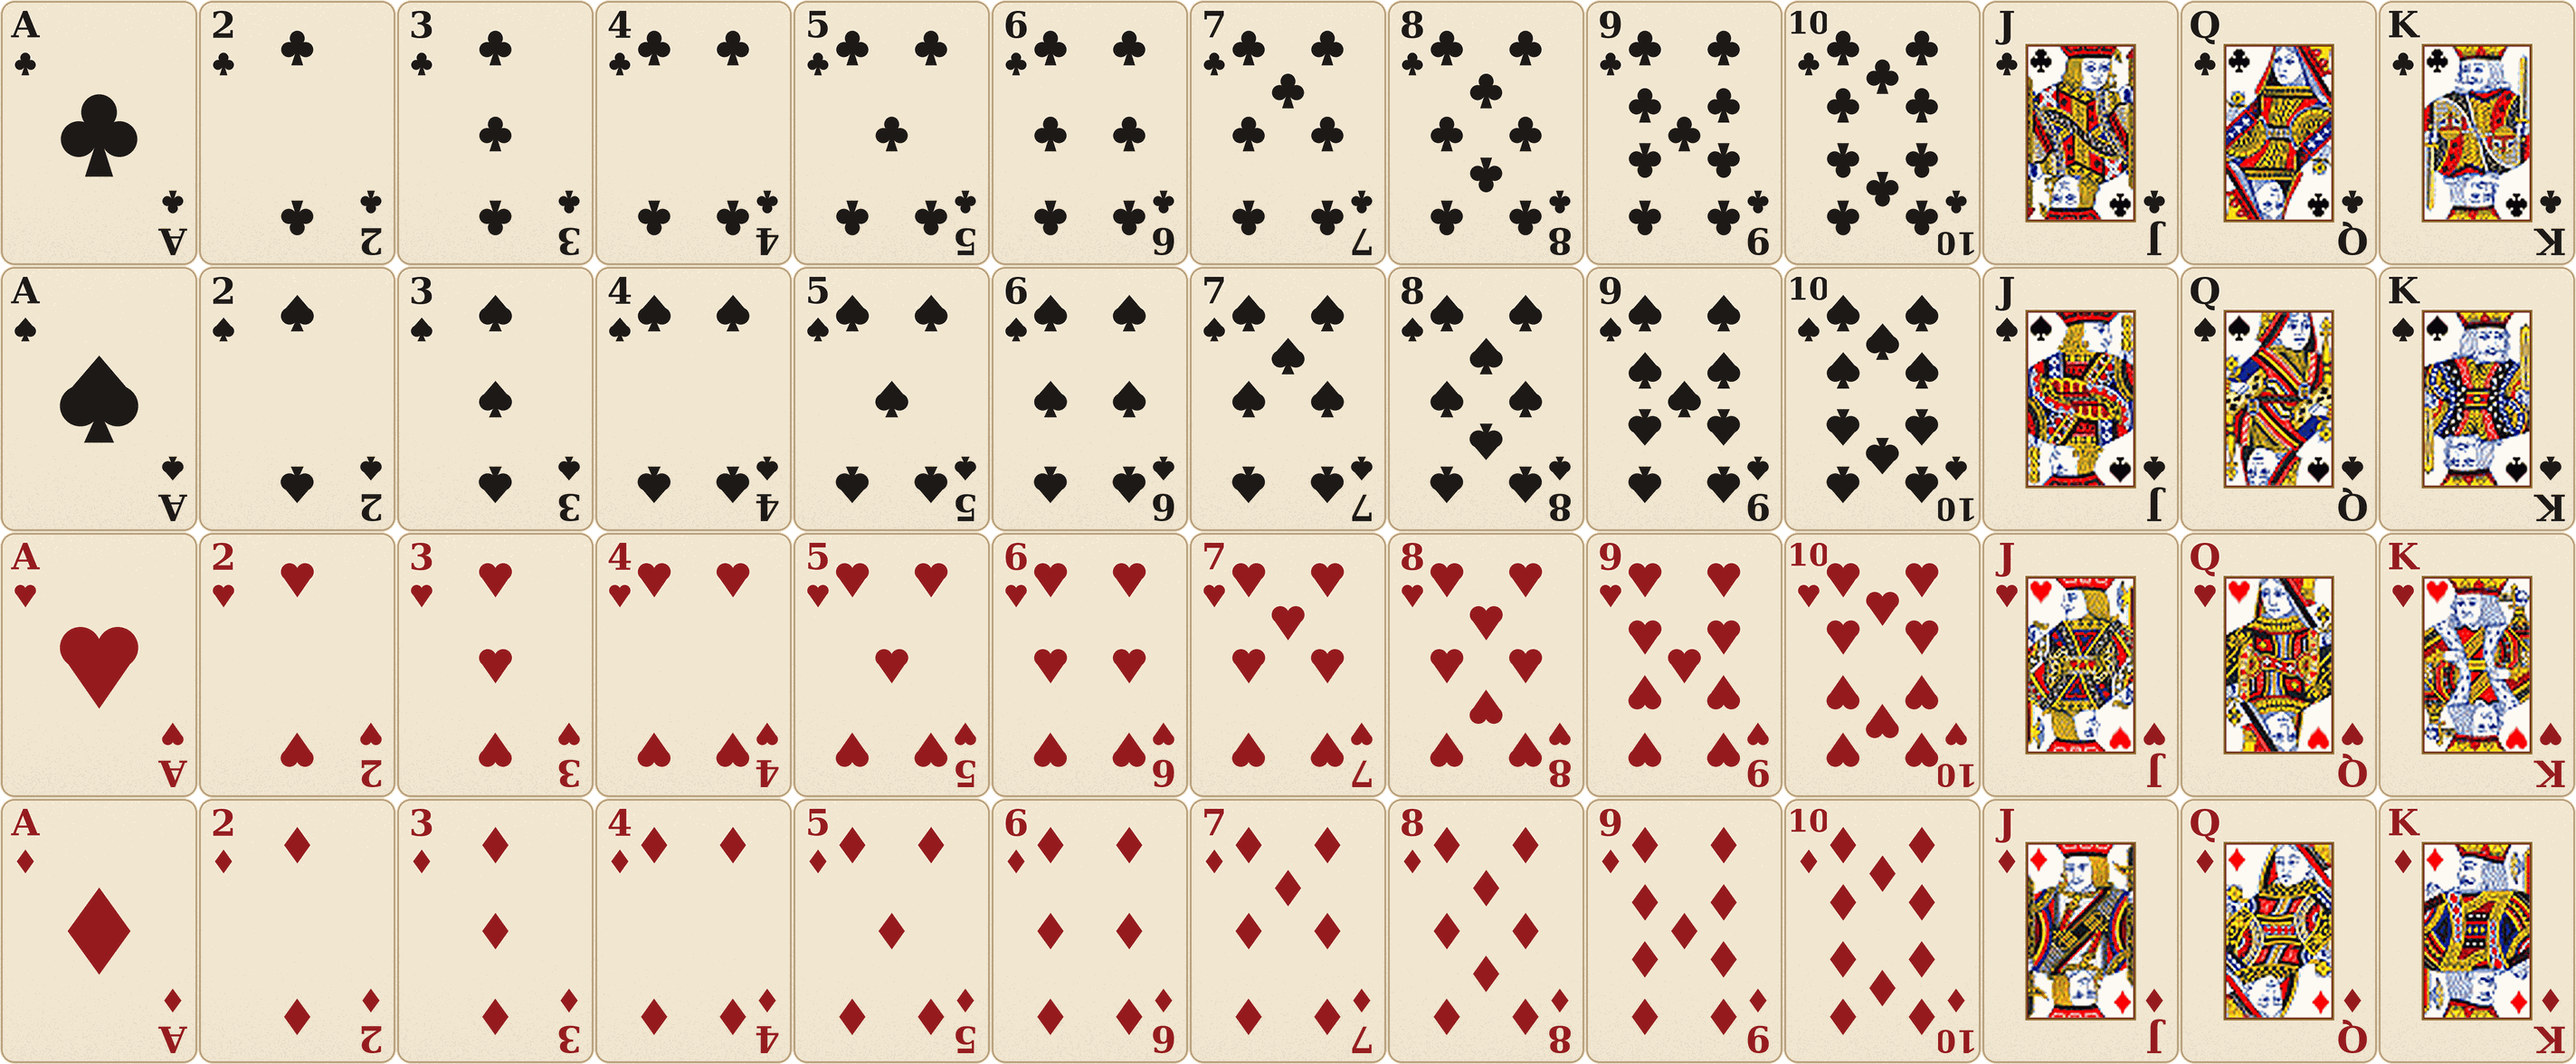
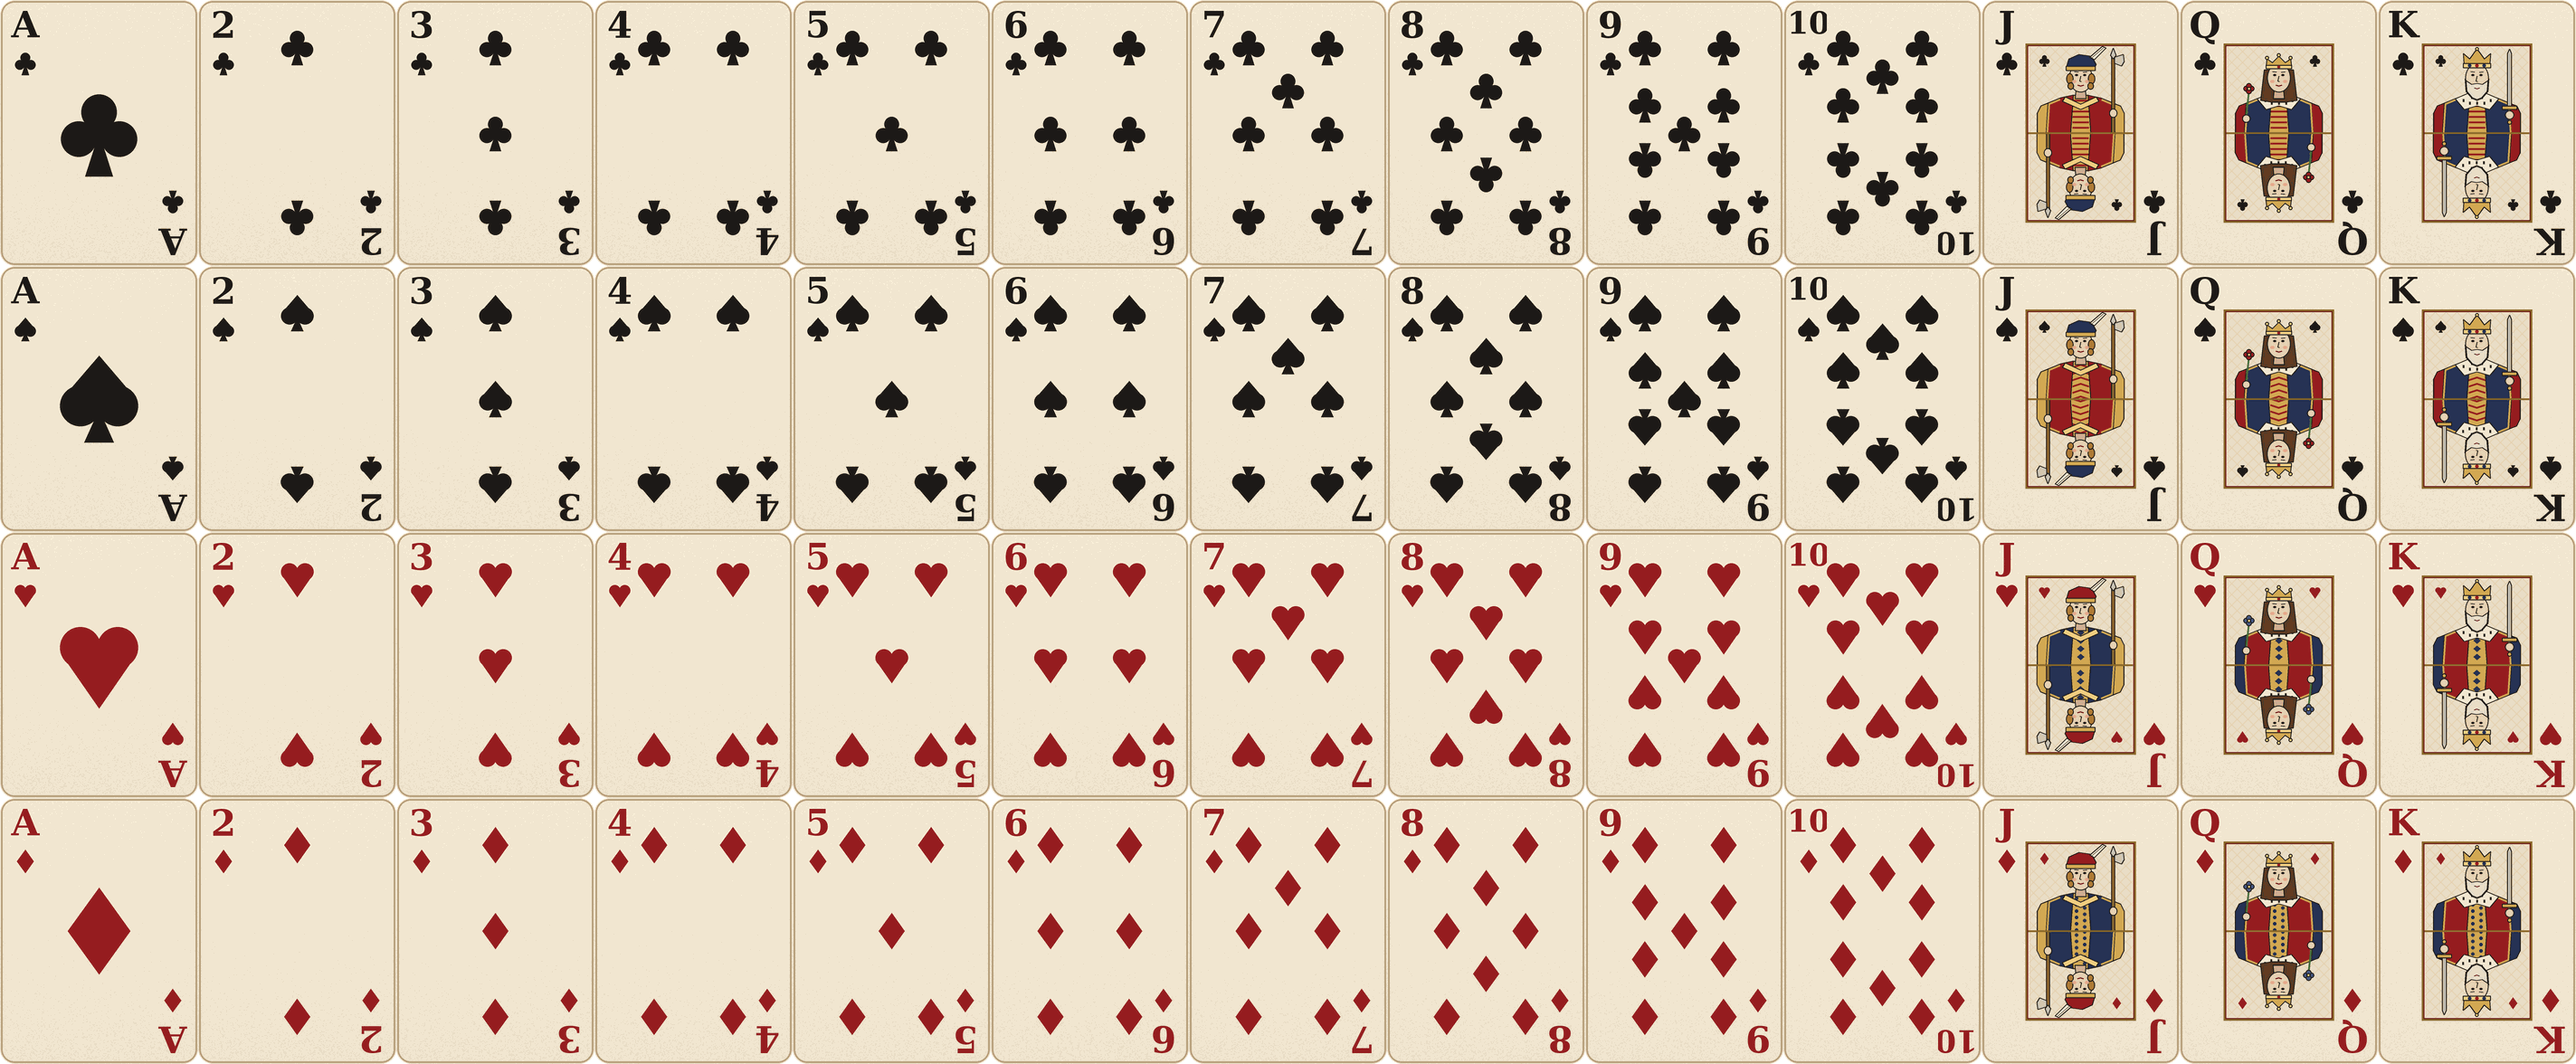
New court cards: our own stylised Jacks, Queens and Kings
The old face art was a tiny 45x74 crop from the 2017 card sheet, blurry when
enlarged and on a white ground. tools/court_art.py now draws each figure from
shapes in the game's palette: head and shoulders mirrored top to bottom, inked
outlines, robes coloured and patterned by suit, and headwear, hair and a sword,
flower or halberd by rank. The unused 2017 sheet (tools/source) is removed.

Claude-Session: https://claude.ai/code/session_01WrGcoQcxycBfkWXV8vLDdm

diff --git a/tools/court_art.py b/tools/court_art.py
@@ -1,0 +1,204 @@
+"""Court card figures (Jack, Queen, King), drawn from shapes in the game's palette.
+
+Each figure is half a card, head and shoulders, then mirrored top to bottom like a
+real court card. Outlined in ink, like a woodcut print; the suit decides the robe's
+colours and pattern, the rank the headwear, hair and what the figure holds.
+"""
+
+from PIL import Image, ImageDraw
+
+INK = (30, 27, 24)
+CREAM = (243, 232, 210)
+GOLD = (210, 168, 82)
+GOLD_LIGHT = (240, 206, 128)
+GOLD_DARK = (140, 104, 44)
+RED = (150, 28, 31)
+OXBLOOD = (104, 18, 20)
+NAVY = (38, 50, 84)
+NAVY_LIGHT = (70, 88, 130)
+SKIN = (238, 208, 172)
+SKIN_SHADE = (214, 176, 140)
+STEEL = (196, 196, 188)
+
+HAIR = {"J": (176, 122, 52), "Q": (96, 58, 32), "K": (226, 220, 206)}  # fair, dark, grey
+
+
+def suit_colours(suit):
+    """(main robe colour, second robe colour) for a suit: reds lead with red, blacks with navy."""
+    return (RED, NAVY) if suit in ("hearts", "diamonds") else (NAVY, RED)
+
+
+class Pen:
+    """Draws in a unit grid (half-card coordinates, 0..116 by 0..96) scaled up by k."""
+
+    def __init__(self, img, k, line):
+        self.d = ImageDraw.Draw(img)
+        self.k = k
+        self.line = line
+
+    def p(self, pts):
+        return [(x * self.k, y * self.k) for x, y in pts]
+
+    def poly(self, pts, fill, outline=INK):
+        self.d.polygon(self.p(pts), fill=fill)
+        if outline:
+            self.d.line(self.p(pts + [pts[0]]), fill=outline, width=self.line, joint="curve")
+
+    def ellipse(self, cx, cy, rx, ry, fill, outline=INK):
+        k = self.k
+        self.d.ellipse([(cx - rx) * k, (cy - ry) * k, (cx + rx) * k, (cy + ry) * k], fill=fill,
+                       outline=outline, width=self.line if outline else 0)
+
+    def stroke(self, pts, fill=INK, width=None):
+        self.d.line(self.p(pts), fill=fill, width=width or self.line, joint="curve")
+
+    def clip_rect(self, x0, y0, x1, y1):
+        return [x0 * self.k, y0 * self.k, x1 * self.k, y1 * self.k]
+
+
+W, H = 116, 96  # half the art box, in card pixels
+
+
+def court_half(rank, suit, k, suit_shape):
+    """The top half of a court card's art, k times card resolution (transparent around the figure)."""
+    img = Image.new("RGBA", (W * k, H * k), (0, 0, 0, 0))
+    pen = Pen(img, k, max(1, int(1.1 * k)))
+    main, second = suit_colours(suit)
+    side = 1 if rank != "Q" else -1  # which hand holds the item: K and J right, Q left
+    cx = 58
+
+    body(pen, rank, suit, cx, main, second)
+    held(pen, rank, cx, side)
+    head(pen, rank, cx)
+    headwear(pen, rank, cx, main)
+    held_front(pen, rank, cx, side, main)
+    # the suit sign by the head, as on a real court card
+    suit_shape(pen.d, suit, (cx - 40 * side) * k, 16 * k, 13 * k, RED if suit in ("hearts", "diamonds") else INK)
+    return img
+
+
+# ---- the figure, back to front
+
+def held(pen, rank, cx, side):
+    """The long part of what the figure holds, up past the shoulder."""
+    x = cx + 36 * side
+    if rank == "K":  # an upright sword
+        pen.poly([(x - 2.2, 8), (x, 3), (x + 2.2, 8), (x + 2.2, 70), (x - 2.2, 70)], STEEL)
+        pen.stroke([(x, 9), (x, 68)], fill=(150, 150, 144), width=max(1, pen.line // 2))
+    elif rank == "J":  # a halberd
+        pen.poly([(x - 1.6, 10), (x + 1.6, 10), (x + 1.6, 96), (x - 1.6, 96)], GOLD_DARK)
+        pen.poly([(x, 2), (x + 3, 10), (x, 14), (x - 3, 10)], STEEL)
+        pen.poly([(x + 1.6, 12), (x + 11 * 1, 9), (x + 12, 17), (x + 9, 22), (x + 1.6, 19)], STEEL)
+
+
+def body(pen, rank, suit, cx, main, second):
+    # broad shoulders, then straight down to the middle of the card (so the mirrored halves make one robe)
+    robe = [(cx - 22, 57), (cx + 22, 57), (cx + 44, 66), (cx + 48, 74), (cx + 48, 96), (cx - 48, 96), (cx - 48, 74),
+            (cx - 44, 66)]
+    pen.poly(robe, main)
+    if rank == "J":  # a doublet in two colours
+        for s in (-1, 1):
+            pen.poly([(cx + 8 * s, 54), (cx + 22 * s, 57), (cx + 44 * s, 66), (cx + 48 * s, 74), (cx + 48 * s, 96),
+                      (cx + 8 * s, 96)], second)
+    # sleeves: a band of the other colour down each side
+    for s in (-1, 1):
+        pen.poly([(cx + 36 * s, 63), (cx + 44 * s, 66), (cx + 48 * s, 74), (cx + 48 * s, 96), (cx + 38 * s, 96)],
+                 GOLD if rank == "J" else second)
+    # the front panel, patterned by suit
+    panel = [(cx - 8, 54), (cx + 8, 54), (cx + 11, 96), (cx - 11, 96)]
+    pen.poly(panel, GOLD)
+    pattern(pen, suit, cx, second)
+    pen.poly(panel, None)  # re-ink the panel's edge over the pattern
+    # trim down the robe's outer edges
+    for s in (-1, 1):
+        pen.stroke([(cx + 23 * s, 59), (cx + 35 * s, 64), (cx + 37 * s, 95)], fill=GOLD, width=pen.line * 2)
+    # the collar: ermine for the King and Queen, a gold band for the Jack
+    if rank == "J":
+        pen.poly([(cx - 17, 56), (cx, 64), (cx + 17, 56), (cx + 20, 61), (cx, 70), (cx - 20, 61)], GOLD_LIGHT)
+    else:
+        pen.poly([(cx - 24, 58), (cx - 10, 52), (cx, 60), (cx + 10, 52), (cx + 24, 58), (cx + 14, 70), (cx, 66),
+                  (cx - 14, 70)], CREAM)
+        for (x, y) in [(-15, 60), (-8, 63), (8, 63), (15, 60), (0, 63)]:
+            pen.stroke([(cx + x, y - 1.5), (cx + x, y + 1.5)], width=pen.line * 2)
+
+
+def pattern(pen, suit, cx, colour):
+    """The front panel's pattern: stripes, chevrons, a lattice or dots, by suit."""
+    if suit == "clubs":
+        for y in range(60, 96, 6):
+            pen.stroke([(cx - 9, y), (cx + 9, y)], fill=colour, width=pen.line * 2)
+    elif suit == "spades":
+        for y in range(58, 96, 7):
+            pen.stroke([(cx - 9, y + 3), (cx, y), (cx + 9, y + 3)], fill=colour, width=pen.line * 2)
+    elif suit == "hearts":
+        for y in range(60, 96, 9):
+            pen.poly([(cx, y - 3.5), (cx + 4, y), (cx, y + 3.5), (cx - 4, y)], colour, outline=None)
+    else:
+        for y in range(60, 96, 7):
+            for x in (-4.5, 4.5):
+                pen.ellipse(cx + x, y + (3.5 if x > 0 else 0), 1.8, 1.8, colour, outline=None)
+
+
+def head(pen, rank, cx):
+    hair = HAIR[rank]
+    if rank == "Q":  # long hair falling behind the shoulders
+        pen.poly([(cx - 16, 26), (cx + 16, 26), (cx + 20, 60), (cx + 8, 62), (cx - 8, 62), (cx - 20, 60)], hair)
+    pen.poly([(cx - 5, 48), (cx + 5, 48), (cx + 6, 58), (cx - 6, 58)], SKIN_SHADE)  # neck
+    if rank == "K":  # a full beard
+        pen.poly([(cx - 13, 36), (cx + 13, 36), (cx + 12, 50), (cx + 5, 58), (cx, 60), (cx - 5, 58), (cx - 12, 50)],
+                 hair)
+    pen.ellipse(cx, 35, 13, 16, SKIN)
+    if rank == "K":  # moustache and beard over the jaw
+        pen.poly([(cx - 12, 38), (cx - 6, 42), (cx, 41), (cx + 6, 42), (cx + 12, 38), (cx + 11, 50), (cx + 5, 57),
+                  (cx, 59), (cx - 5, 57), (cx - 11, 50)], hair)
+        pen.stroke([(cx - 3, 46), (cx, 47), (cx + 3, 46)], fill=OXBLOOD)
+    elif rank == "J":  # short curls at the sides
+        for s in (-1, 1):
+            pen.ellipse(cx + 12 * s, 36, 4, 6, hair)
+            pen.ellipse(cx + 11 * s, 44, 3.5, 4, hair)
+    # the face
+    for s in (-1, 1):
+        pen.ellipse(cx + 4.5 * s, 32, 1.6, 1.2, INK, outline=None)
+        pen.stroke([(cx + 2.5 * s, 28.8), (cx + 7 * s, 28.4)], width=max(1, pen.line))
+    pen.stroke([(cx, 33), (cx - 1.2, 38.5), (cx + 0.8, 39)])
+    if rank != "K":
+        pen.stroke([(cx - 3.5, 43), (cx, 44.2), (cx + 3.5, 43)], fill=OXBLOOD, width=pen.line + 1)
+        for s in (-1, 1):  # a little colour in the cheeks
+            pen.ellipse(cx + 7 * s, 39, 2.4, 1.6, (230, 168, 140), outline=None)
+
+
+def headwear(pen, rank, cx, main):
+    if rank == "K":  # a tall crown with three points and gems
+        pen.poly([(cx - 14, 22), (cx - 15, 8), (cx - 8, 14), (cx, 3), (cx + 8, 14), (cx + 15, 8), (cx + 14, 22)], GOLD)
+        pen.poly([(cx - 15, 19), (cx + 15, 19), (cx + 15, 24), (cx - 15, 24)], GOLD_LIGHT)
+        for x in (-8, 0, 8):
+            pen.ellipse(cx + x, 21.5, 1.8, 1.8, RED if x == 0 else NAVY, outline=None)
+        pen.ellipse(cx, 3, 2, 2, GOLD_LIGHT)
+    elif rank == "Q":  # a low crown of fleurs over her hair
+        pen.poly([(cx - 14, 23), (cx - 13, 14), (cx - 7, 18), (cx, 11), (cx + 7, 18), (cx + 13, 14), (cx + 14, 23)], GOLD)
+        for x in (-13, 0, 13):
+            pen.ellipse(cx + x, 13 if x else 10, 2.2, 2.2, GOLD_LIGHT)
+        pen.poly([(cx - 14, 21), (cx + 14, 21), (cx + 14, 25), (cx - 14, 25)], GOLD_LIGHT)
+        pen.ellipse(cx, 23, 1.6, 1.6, RED, outline=None)
+    else:  # a soft cap with a feather
+        pen.poly([(cx - 16, 24), (cx - 13, 14), (cx - 2, 9), (cx + 12, 11), (cx + 17, 20), (cx + 15, 25)], main)
+        pen.poly([(cx - 16, 22), (cx + 16, 22), (cx + 16, 27), (cx - 16, 27)], GOLD)
+        pen.poly([(cx + 10, 12), (cx + 24, 0), (cx + 28, 2), (cx + 15, 15)], CREAM)
+        pen.stroke([(cx + 12, 13), (cx + 26, 1)], width=max(1, pen.line // 2))
+
+
+def held_front(pen, rank, cx, side, main):
+    """The hand, and the part of what it holds that shows in front."""
+    x = cx + 36 * side
+    if rank == "K":  # the sword's hilt and the fist round it
+        pen.poly([(x - 8, 66), (x + 8, 66), (x + 8, 70), (x - 8, 70)], GOLD)
+        pen.ellipse(x, 76, 5, 5, SKIN)
+        pen.ellipse(x, 84, 2.5, 2.5, GOLD)
+    elif rank == "Q":  # a flower held up to her shoulder
+        pen.stroke([(x, 78), (x - 3 * side, 50)], fill=(70, 110, 60), width=pen.line * 2)
+        for a, b in [(-3, 0), (3, 0), (0, -3), (0, 3)]:
+            pen.ellipse(x - 3 * side + a, 47 + b, 3.2, 3.2, RED if main == NAVY else NAVY_LIGHT)
+        pen.ellipse(x - 3 * side, 47, 2, 2, GOLD_LIGHT)
+        pen.ellipse(x, 80, 4.5, 4.5, SKIN)
+    else:  # his fist round the halberd's shaft
+        pen.ellipse(x, 74, 4.5, 5, SKIN)

diff --git a/tools/make_art.py b/tools/make_art.py
@@ -3,12 +3,11 @@
 Draws the game's card deck, card back, table, icons and UI frames in one warm
 palette (espresso, cream, oxblood, gold), at high resolution.
 
-The number cards are drawn entirely from vector shapes. The jacks, queens and
-kings reuse the face illustrations from the original card sheet
-(tools/source/cards.png), enlarged and set into a new frame.
+Everything is drawn from vector shapes: the number cards here, the jacks, queens
+and kings in court_art.py.
 
 Usage: python3 tools/make_art.py [output dir, default assets/images]
-Needs Pillow, NumPy and the DejaVu fonts.
+Needs Pillow, NumPy, the DejaVu fonts and TeX Gyre Pagella (the bid numerals).
 """
 import math
 import os
@@ -16,6 +15,8 @@ import sys
 
 import numpy as np
 from PIL import Image, ImageDraw, ImageFilter, ImageFont
+
+import court_art
 
 HERE = os.path.dirname(os.path.abspath(__file__))
 SS = 4  # supersampling for smooth edges
@@ -159,19 +160,19 @@ def number_card(rank, suit, seed):
     return downsample(img, CARD_W, CARD_H)
 
 
-def face_card(rank, suit, seed, source):
-    """The original face illustration, enlarged and set into a gold-and-oxblood frame."""
-    col = RANKS.index(rank)
-    row = SUITS.index(suit)
-    cell = source.crop((col * 73, row * 98, col * 73 + 73, row * 98 + 98)).convert("RGBA")
-    art = cell.crop((14, 12, 59, 86))  # inside the original black frame
-    aw, ah = 116, 191  # clear of the corner indices
-    art = art.resize((aw * SS, ah * SS), Image.LANCZOS).filter(ImageFilter.UnsharpMask(radius=6, percent=60, threshold=2))
-    # warm the colours slightly towards the cream paper so they sit in the palette
-    a = np.asarray(art).astype(float)
-    warm = np.array([255, 238, 205], float)
-    a[..., :3] = a[..., :3] * 0.85 + (a[..., :3] * warm / 255.0) * 0.15
-    art = Image.fromarray(np.clip(a, 0, 255).astype(np.uint8), "RGBA")
+def face_card(rank, suit, seed):
+    """A court card: our own figure (see court_art.py), mirrored top to bottom, in a gold-and-oxblood frame."""
+    aw, ah = court_art.W, court_art.H * 2  # clear of the corner indices
+    half = court_art.court_half(rank, suit, SS, suit_shape)
+    art = Image.new("RGBA", (aw * SS, ah * SS), (236, 222, 194, 255))  # a shade darker than the paper
+    lattice = ImageDraw.Draw(art)  # and a faint diamond lattice behind the figure
+    for i in range(-ah, aw + ah, 12):
+        lattice.line([(i * SS, 0), ((i + ah) * SS, ah * SS)], fill=(226, 208, 176, 255), width=SS)
+        lattice.line([(i * SS, 0), ((i - ah) * SS, ah * SS)], fill=(226, 208, 176, 255), width=SS)
+    art.alpha_composite(half, (0, 0))
+    art.alpha_composite(half.rotate(180), (0, court_art.H * SS))
+    d = ImageDraw.Draw(art)
+    d.line([(0, court_art.H * SS), (aw * SS, court_art.H * SS)], fill=GOLD_DARK, width=2 * SS)
 
     img = card_base(seed)
     W, H = img.size
@@ -185,12 +186,11 @@ def face_card(rank, suit, seed, source):
 
 
 def card_sheet(out):
-    source = Image.open(os.path.join(HERE, "source", "cards.png")).convert("RGBA")
     sheet = Image.new("RGBA", (CARD_W * 13, CARD_H * 4), (0, 0, 0, 0))
     for r, suit in enumerate(SUITS):
         for c, rank in enumerate(RANKS):
             seed = r * 13 + c
-            card = face_card(rank, suit, seed, source) if rank in "JQK" else number_card(rank, suit, seed)
+            card = face_card(rank, suit, seed) if rank in "JQK" else number_card(rank, suit, seed)
             sheet.paste(card, (c * CARD_W, r * CARD_H))
     # 256 colours with dithering: looks the same, a tenth of the file size
     sheet.convert("RGBA").quantize(256, method=Image.Quantize.FASTOCTREE, dither=Image.Dither.FLOYDSTEINBERG).save(
